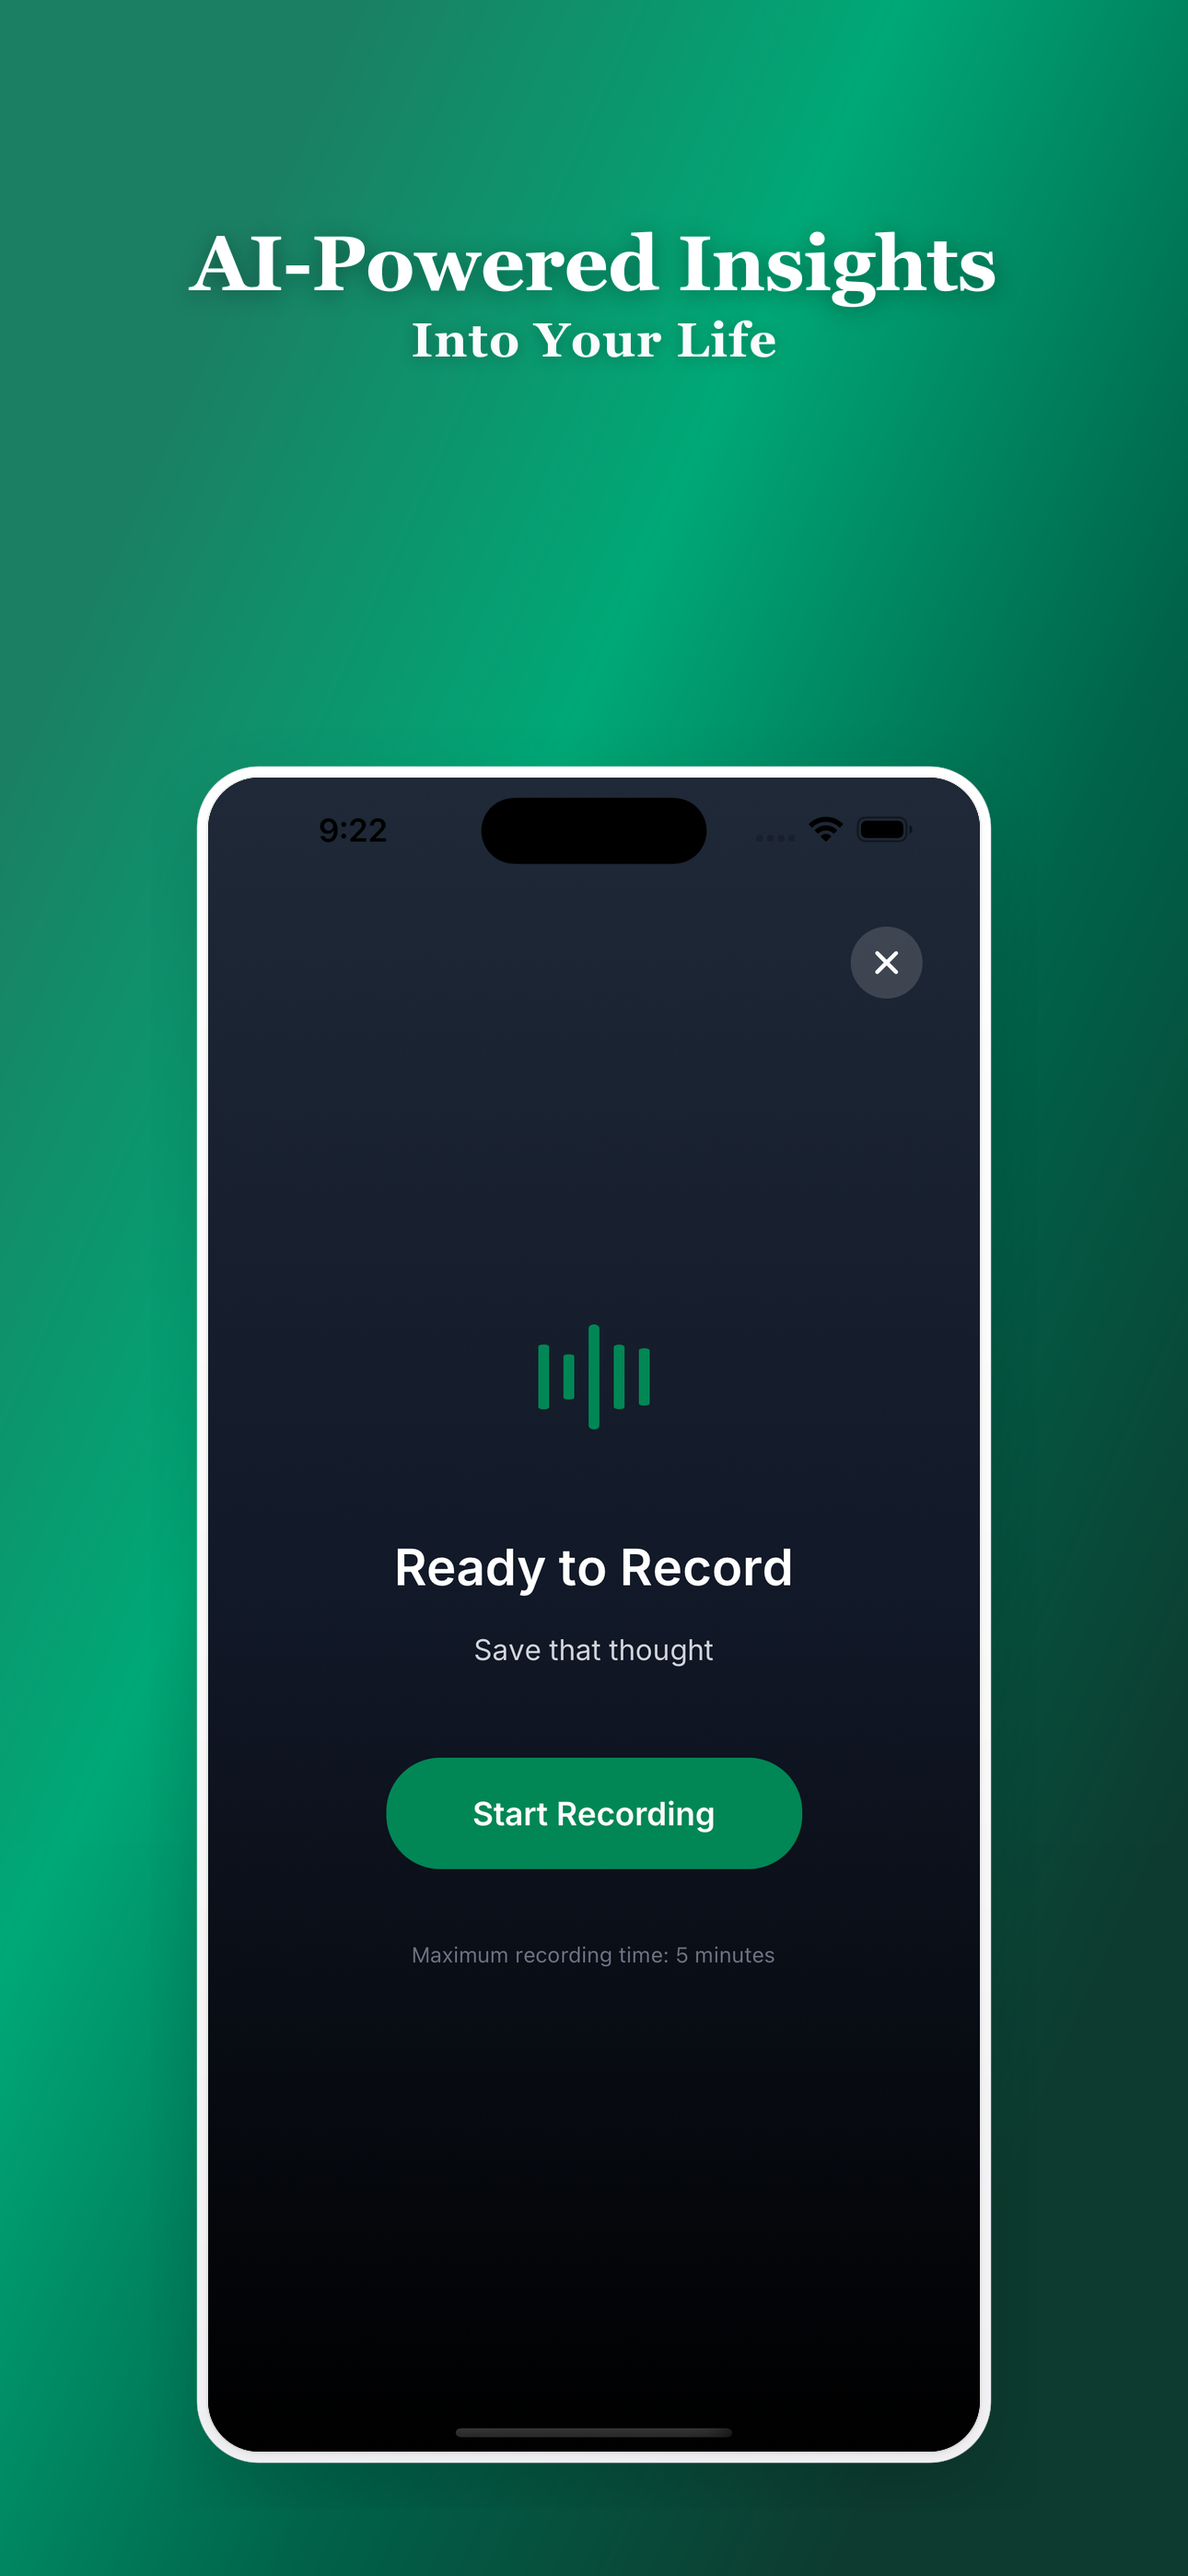
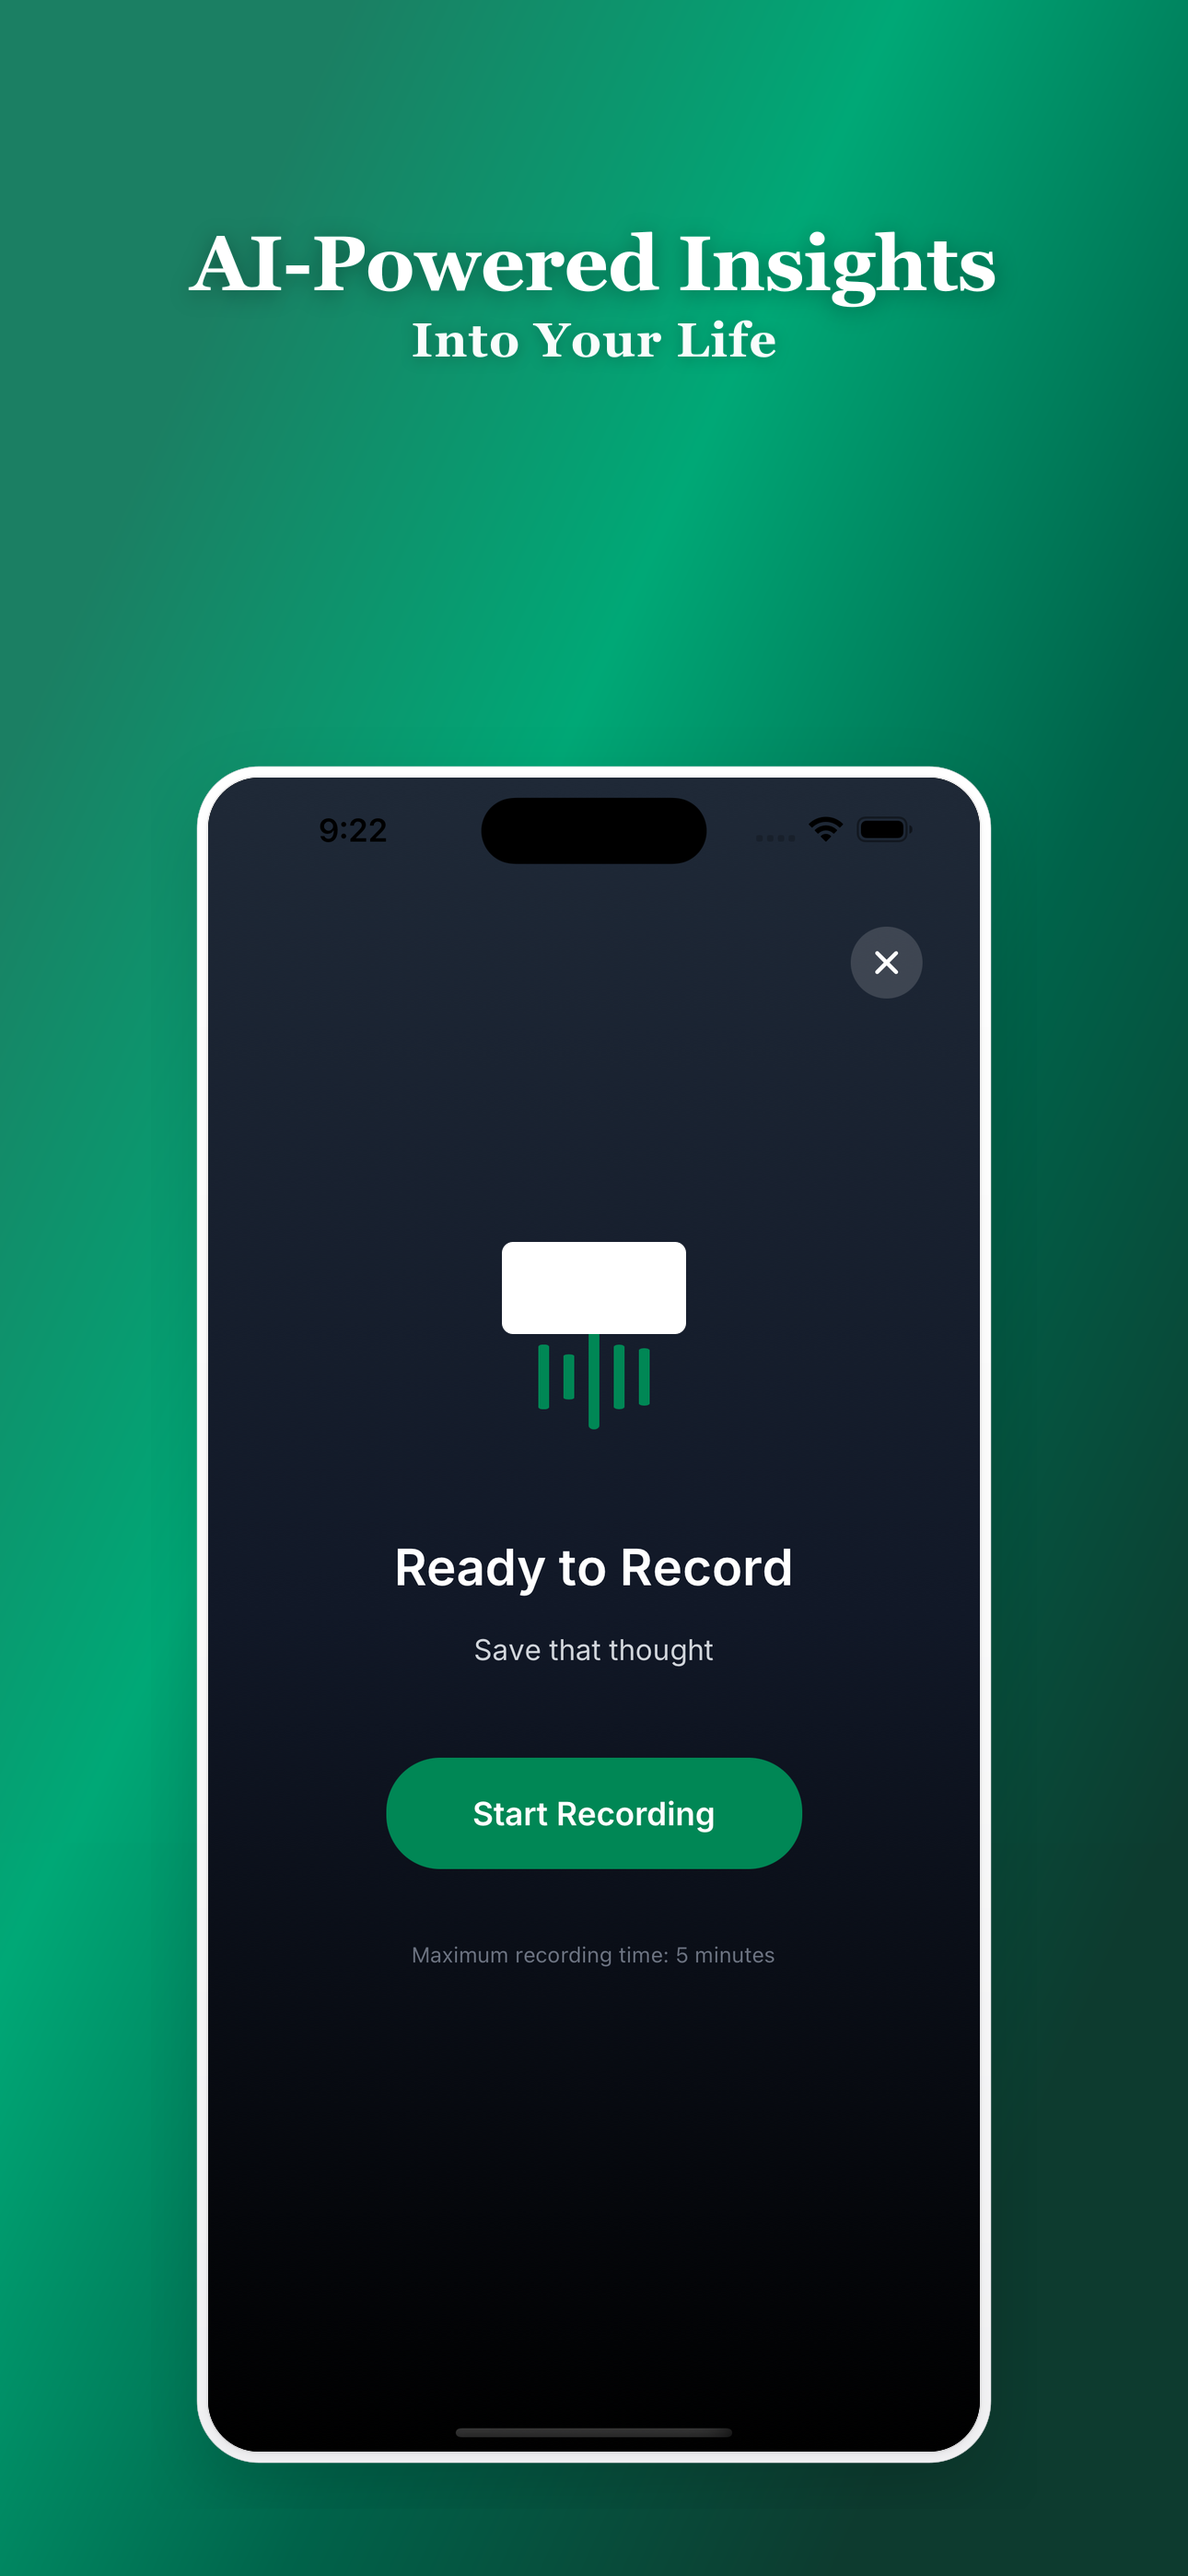
feat: clean animated waveform overlay
- Removed static waveform from screenshot image itself
- Animated CSS waveform now overlays cleanly
- No visual artifacts or white mask needed
- Smooth pulsing animation matches real app behavior

Changed region(s): [[0.4031, 0.4667, 0.5891, 0.529]]

diff --git a/preview.html b/preview.html
@@ -111,19 +111,6 @@
             position: relative;
         }
 
-        /* White mask to cover static waveform in screenshot */
-        .waveform-mask {
-            position: absolute;
-            top: 50%;
-            left: 50%;
-            transform: translate(-50%, -50%);
-            width: 150px;
-            height: 80px;
-            background: white;
-            border-radius: 8px;
-            pointer-events: none;
-        }
-
         .waveform-overlay {
             position: absolute;
             top: 50%;
@@ -134,7 +121,6 @@
             align-items: center;
             justify-content: center;
             pointer-events: none;
-            z-index: 1;
         }
 
         .waveform-bar {
@@ -344,7 +330,6 @@
                 </div>
                 <div class="carousel-item voice-recording">
                     <img src="public/screenshots/03_voice_recording.png" alt="Voice Recording">
-                    <div class="waveform-mask"></div>
                     <div class="waveform-overlay">
                         <div class="waveform-bar"></div>
                         <div class="waveform-bar"></div>
